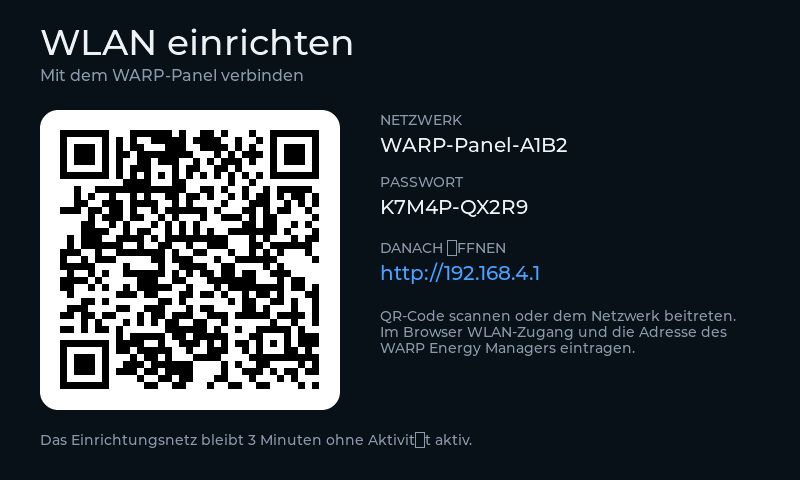
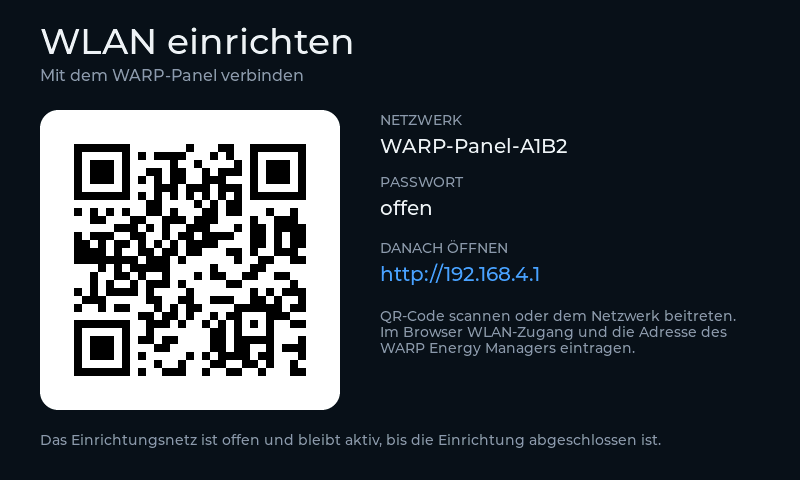
Open setup access point without timeout

diff --git a/src/main.cpp b/src/main.cpp
@@ -38,14 +38,16 @@ constexpr char DEFAULT_URL[] = "http://192.168.1.222";
 
 char g_url[96] = "http://192.168.1.222";
 
-// The setup portal is used twice: blocking on first boot (AP + captive
-// portal), and non-blocking afterwards on the local network so the WARP
-// address can be changed without wiping the Wi-Fi credentials.
+// The setup portal is used twice: blocking on first boot (open AP + captive
+// portal, no timeout), and non-blocking afterwards on the local network so the
+// WARP address can be changed without wiping the Wi-Fi credentials.
 WiFiManager *g_wm = nullptr;
 WiFiManagerParameter *g_urlParam = nullptr;
 bool g_mdnsOk = false;
 char g_apSsid[32] = "WARP-Panel";
-char g_apPassword[16] = "";
+// The setup network is intentionally open. The QR code and the setup screen
+// carry the SSID, so joining it needs no password on any device.
+constexpr char g_apPassword[] = "";
 
 WarpData g_data;
 bool g_haveData = false;
@@ -188,22 +190,10 @@ void setupMdns() {
   }
 }
 
-void generateApCredentials() {
+void generateApSsid() {
   const uint64_t chip = ESP.getEfuseMac();
   snprintf(g_apSsid, sizeof(g_apSsid), "WARP-Panel-%04X",
            static_cast<unsigned>(chip & 0xFFFFu));
-
-  // Random per boot, shown on the panel and carried by the QR code. 10
-  // characters from a 32-symbol alphabet: enough for a three-minute setup AP.
-  static const char alphabet[] = "ABCDEFGHJKLMNPQRSTUVWXYZ23456789";
-  for (int i = 0; i < 5; ++i) {
-    g_apPassword[i] = alphabet[esp_random() % (sizeof(alphabet) - 1)];
-  }
-  g_apPassword[5] = '-';
-  for (int i = 0; i < 5; ++i) {
-    g_apPassword[6 + i] = alphabet[esp_random() % (sizeof(alphabet) - 1)];
-  }
-  g_apPassword[11] = '\0';
 }
 
 enum class FetchResult { Ok, Disconnected, NoData };
@@ -298,7 +288,7 @@ void setupNetwork() {
     saveUrl();
   }
 
-  generateApCredentials();
+  generateApSsid();
 
   g_wm = new WiFiManager();
   g_urlParam = new WiFiManagerParameter(
@@ -307,14 +297,16 @@ void setupNetwork() {
   g_wm->addParameter(g_urlParam);
 
   g_wm->setDebugOutput(false);
-  g_wm->setConfigPortalTimeout(180);
+  // No timeout on the first-boot portal: the setup screen with the QR code
+  // stays visible until the user has configured a WLAN and the panel joined it.
+  g_wm->setConfigPortalTimeout(0);
   g_wm->setConnectTimeout(20);
   g_wm->setHostname("warp-panel");
   g_wm->setTitle("WARP-Panel Setup");
   g_wm->setDarkMode(true);
   g_wm->setAPCallback([](WiFiManager *mgr) {
     const String ssid = mgr->getConfigPortalSSID();
-    Serial.printf("Setup AP: %s / %s\n", ssid.c_str(), g_apPassword);
+    Serial.printf("Setup AP: %s (offen)\n", ssid.c_str());
     warpui::showSetup(ssid.c_str(), g_apPassword, "http://192.168.4.1");
     lv_refr_now(nullptr);
   });
@@ -323,7 +315,7 @@ void setupNetwork() {
   warpui::setConnectionState(warpui::ConnectionState::NoNet);
   const bool connected = g_wm->autoConnect(g_apSsid, g_apPassword);
   if (!connected) {
-    Serial.println(F("Wi-Fi configuration timed out, restarting"));
+    Serial.println(F("Wi-Fi configuration did not complete, restarting"));
     delay(500);
     ESP.restart();
   }

diff --git a/src/ui/WarpUi.cpp b/src/ui/WarpUi.cpp
@@ -1434,7 +1434,8 @@ void showSetup(const char *ssid, const char *password, const char *url) {
           "QR-Code scannen oder dem Netzwerk beitreten. Im Browser "
           "WLAN-Zugang und die Adresse des WARP Energy Managers eintragen.");
     label(overlay, 40, 432, 720, F_SMALL, C_MUTED,
-          "Das Einrichtungsnetz bleibt 3 Minuten ohne Aktivität aktiv.");
+          "Das Einrichtungsnetz ist offen und bleibt aktiv, bis die "
+          "Einrichtung abgeschlossen ist.");
   }
 
   lv_label_set_text(w.setupSsid, ssid != nullptr ? ssid : "--");
@@ -1477,8 +1478,18 @@ void setNetworkInfo(const char *ssid, const char *ip, const char *warpUrl,
   snprintf(buf, sizeof(buf), "IP: %s",
            (ip != nullptr && ip[0] != '\0') ? ip : "--");
   setTextIfChanged(w.netIp, buf);
+  // The service page shows the WARP address without the transport scheme,
+  // even though the panel always talks to it over HTTP.
+  const char *warpDisplay = warpUrl;
+  if (warpDisplay != nullptr && strncmp(warpDisplay, "http://", 7) == 0) {
+    warpDisplay += 7;
+  } else if (warpDisplay != nullptr &&
+             strncmp(warpDisplay, "https://", 8) == 0) {
+    warpDisplay += 8;
+  }
   snprintf(buf, sizeof(buf), "WARP: %s",
-           (warpUrl != nullptr && warpUrl[0] != '\0') ? warpUrl : "--");
+           (warpDisplay != nullptr && warpDisplay[0] != '\0') ? warpDisplay
+                                                              : "--");
   setTextIfChanged(w.netWarp, buf);
   snprintf(buf, sizeof(buf), "Web: %s",
            (webUrl != nullptr && webUrl[0] != '\0') ? webUrl : "--");
